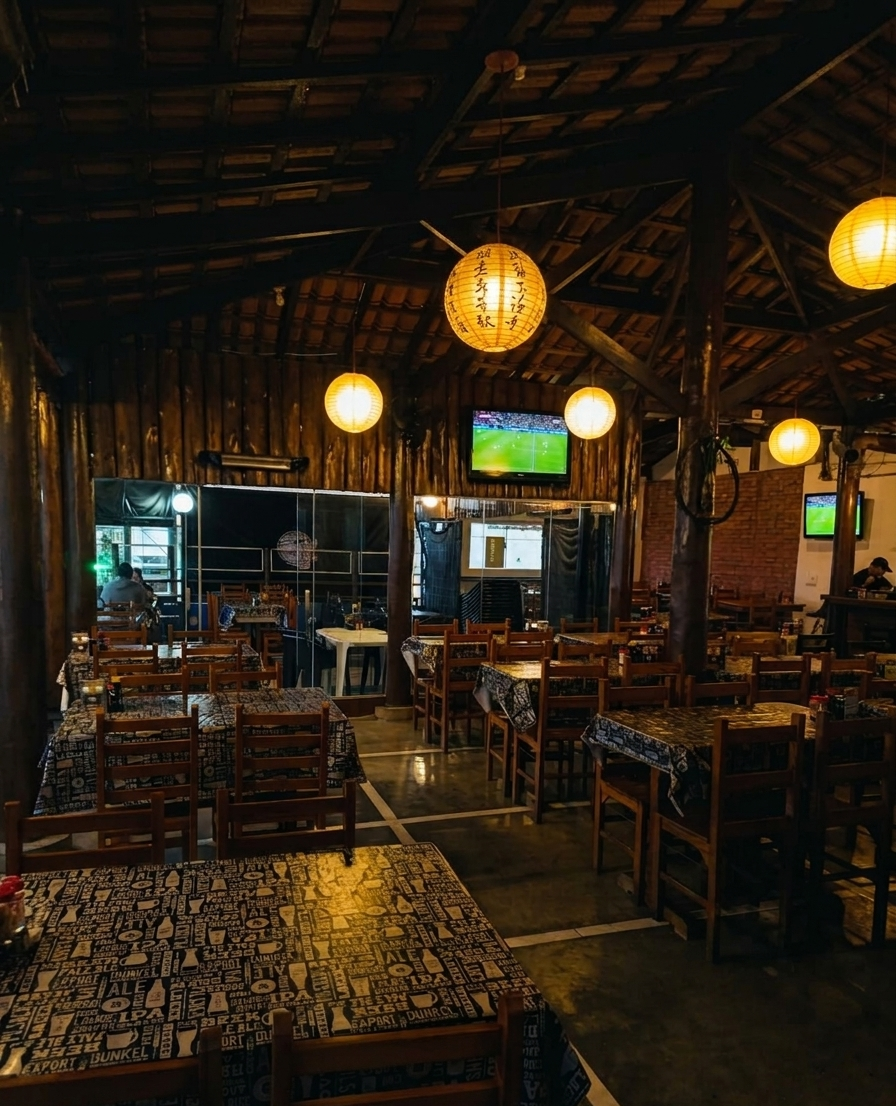
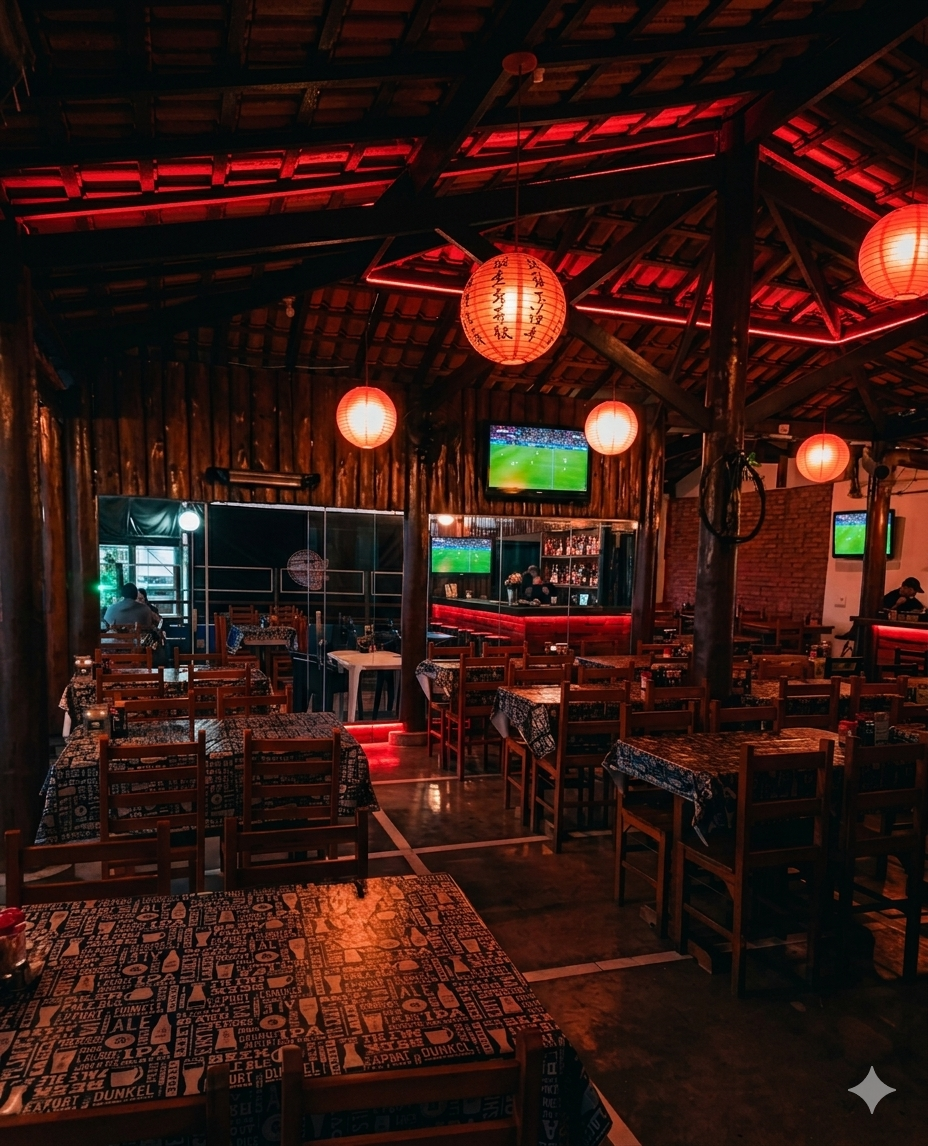
add items in menu

diff --git a/src/components/sakura/Menu.tsx b/src/components/sakura/Menu.tsx
@@ -8,6 +8,10 @@ import strogonoff from "@/assets/strogonoff.jpeg";
 import porcao from "@/assets/porcao.jpeg";
 import nhoque from "@/assets/nhoque.jpeg";
 import macarrao from "@/assets/macarrao.jpeg";
+import camarao from "@/assets/camarao.jpeg";
+import p1 from "@/assets/p1.jpeg";
+import ceviche from "@/assets/ceviche.jpeg";
+import porcaolinguica from "@/assets/porcaolinguica.jpeg";
 
 export const Menu = () => {
   // 1. Volta a começar mostrando apenas 4 itens
@@ -62,8 +66,31 @@ export const Menu = () => {
       desc: "Macarrão perfeitamente cozido al dente com molho especial do chef.",
       img: macarrao,
     },
+    {
+      name: "Camarão",
+      jp: "おいしい",
+      desc: "Camarões selecionados preparados com temperos especiais e muito sabor.",
+      img: camarao,
+    },
+    {
+      name: "Poke",
+      jp: "おいしい",
+      desc: "Bowl havaiano refrescante com peixes frescos, legumes e molhos especiais.",
+      img: p1,
+    },
+    {
+      name: "Ceviche",
+      jp: "おいしい",
+      desc: "Peixe marinado no limão com cebola roxa, temperos frescos e toque cítrico.",
+      img: ceviche,
+    },
+    {
+      name: "Porção de Linguiça",
+      jp: "おいしい",
+      desc: "Linguiça grelhada na medida certa, servida quentinha e cheia de sabor.",
+      img: porcaolinguica,
+    },
   ];
-
   const fotosVisiveis = items.slice(0, showAll);
 
   return (

diff --git a/src/index.css b/src/index.css
@@ -10,7 +10,7 @@
 @layer base {
   :root {
     /* Core dark palette */
-    --background: 0 0% 8%;
+    --background: 0 0% 5%;
     --foreground: 30 20% 94%;
 
     --card: 0 0% 7%;
@@ -50,9 +50,9 @@
     /* Gradients */
     --gradient-hero: linear-gradient(
       180deg,
-      hsl(0 0% 0% / 0.75) 5%,
-      hsl(0 0% 3% / 0.85) 60%,
-      hsl(0 0% 5%) 100%
+      hsl(0 0% 0% / 0.89) 10%,
+      hsl(0 0% 3% / 0.97) 60%,
+      hsl(0 0% 6%) 100%
     );
     --gradient-red: linear-gradient(
       135deg,